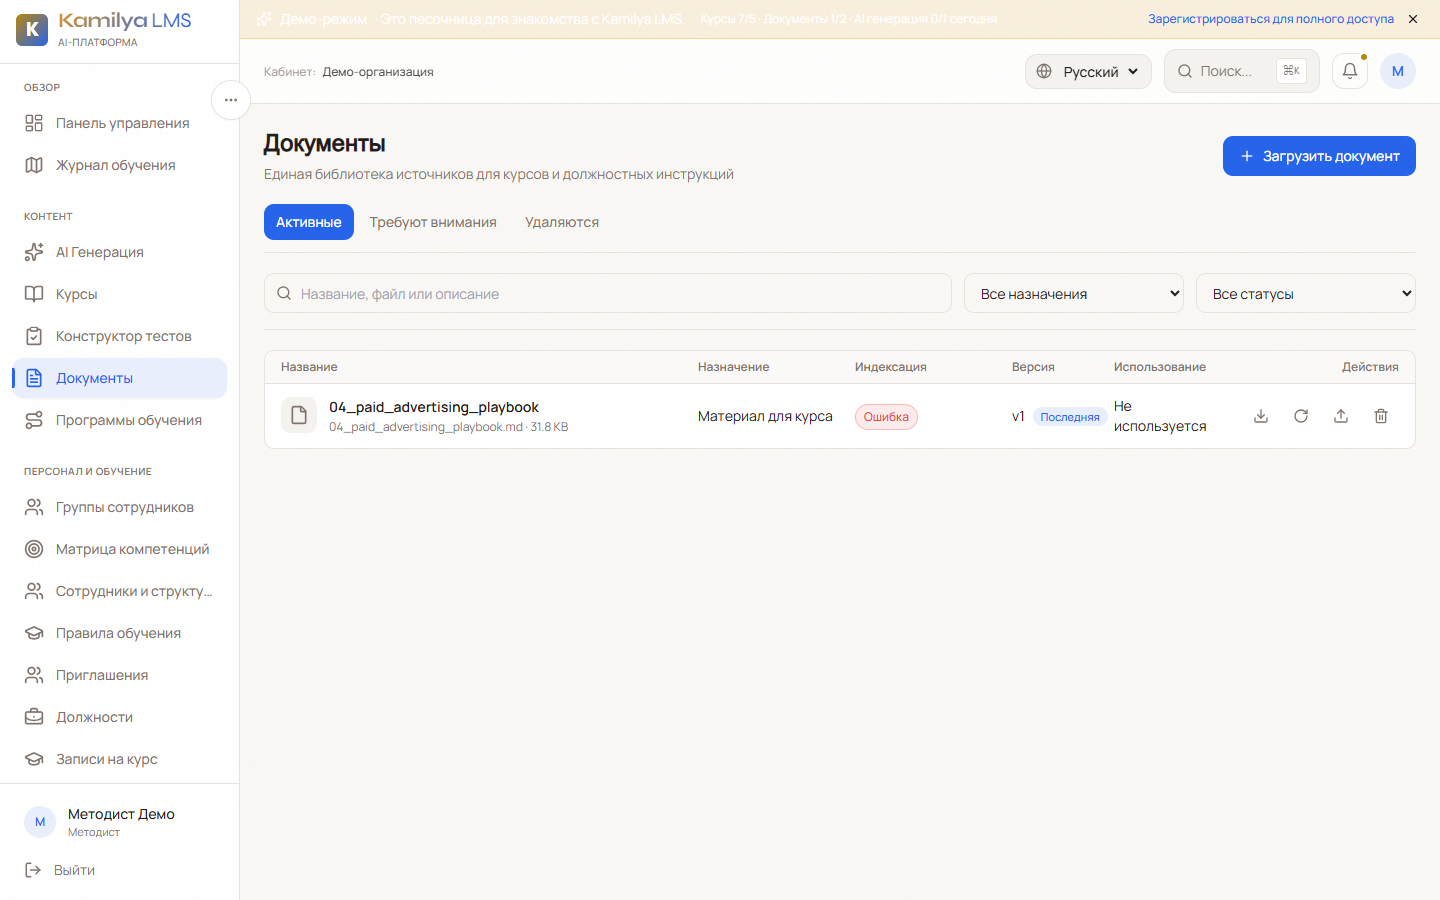
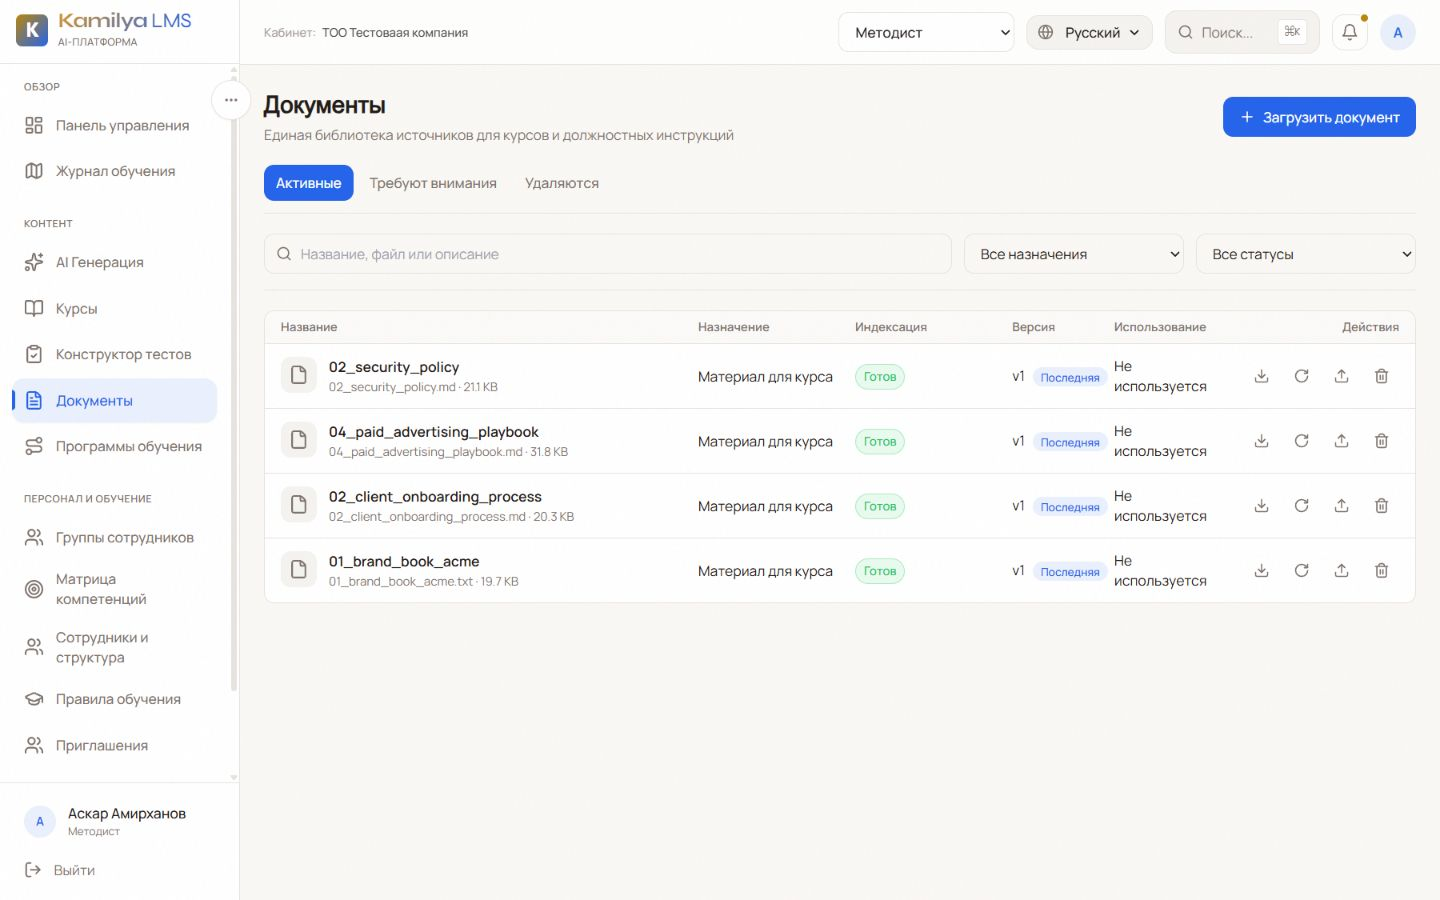
docs(presentation): refresh sales story screens

diff --git a/docs/presentations/2026-07-27_kamilya-lms-sales-story.html b/docs/presentations/2026-07-27_kamilya-lms-sales-story.html
@@ -235,7 +235,7 @@
               <div class="proof-row"><span><strong>Методолог</strong> управляет учебным контентом и назначениями.</span></div>
               <div class="proof-row"><span><strong>Обучающийся</strong> проходит курс в своём кабинете.</span></div>
             </div>
-            <p class="note">Все данные на скриншотах синтетические. Экраны сняты в production demo 27.07.2026.</p>
+            <p class="note">Все данные на скриншотах синтетические. Экраны повторно проверены в production 28.07.2026.</p>
           </div>
           <div class="screen-wrap">
             <div class="browser-bar"><i class="browser-dot"></i><i class="browser-dot"></i><i class="browser-dot"></i><span class="browser-url">https://app.kml.kz/login/demo</span></div>
@@ -250,8 +250,8 @@
     <section class="slide" data-title="Методолог видит рабочую систему" data-chapter="Роль">
       <header class="slide-header"><div class="brand"><span class="brand-mark">K</span><span><b>Kamilya</b> LMS</span></div><div class="slide-number">02 / 09</div></header>
       <div class="slide-body"><div class="story">
-        <div class="story-copy"><div class="eyebrow">Шаг 1 · Методолог</div><h2>Один кабинет для всей учебной работы</h2><p class="lead">Не нужно собирать обучение из таблиц, чатов и разрозненных файлов. Методолог сразу видит курсы, документы, группы, сотрудников, назначения и журнал.</p><div class="proof"><div class="proof-row"><span><strong>Контент</strong> и <strong>обучение</strong> собраны в одной навигации.</span></div><div class="proof-row"><span>Администратор организации не смешивается с учебными задачами.</span></div></div></div>
-        <div class="screen-wrap"><div class="browser-bar"><i class="browser-dot"></i><i class="browser-dot"></i><i class="browser-dot"></i><span class="browser-url">https://app.kml.kz/courses</span></div><img class="screen" src="assets/2026-07-27-sales-story/02-courses.png" alt="Реальный кабинет методолога со списком курсов"><div class="screen-caption"><strong>Курсы · Демо-организация</strong><span>7 курсов · черновики и опубликованные</span></div></div>
+        <div class="story-copy"><div class="eyebrow">Шаг 1 · Методолог</div><h2>Один кабинет для всей учебной работы</h2><p class="lead">Не нужно собирать обучение из таблиц, чатов и разрозненных файлов. Методолог сразу видит контент, персонал, назначения и журнал.</p><div class="proof"><div class="proof-row"><span>Разделы <strong>«Контент»</strong> и <strong>«Персонал и обучение»</strong> разведены в понятной навигации.</span></div><div class="proof-row"><span>Сотрудники, отделы и должности собраны в одном разделе без дублирующего реестра.</span></div></div></div>
+        <div class="screen-wrap"><div class="browser-bar"><i class="browser-dot"></i><i class="browser-dot"></i><i class="browser-dot"></i><span class="browser-url">https://app.kml.kz/courses</span></div><img class="screen" src="assets/2026-07-27-sales-story/02-courses.png" alt="Реальный кабинет методолога со списком курсов"><div class="screen-caption"><strong>Курсы · тестовая организация</strong><span>3 курса · черновик и опубликованные</span></div></div>
       </div></div>
       <footer class="slide-footer"><div class="progress"><span></span></div><div class="controls"></div></footer>
     </section>
@@ -268,8 +268,8 @@
     <section class="slide" data-title="AI собирает первый вариант курса" data-chapter="AI">
       <header class="slide-header"><div class="brand"><span class="brand-mark">K</span><span><b>Kamilya</b> LMS</span></div><div class="slide-number">04 / 09</div></header>
       <div class="slide-body"><div class="story">
-        <div class="story-copy"><div class="eyebrow">Шаг 3 · AI-генерация</div><h2>Из выбранных источников — в структуру курса</h2><p class="lead">Методолог выбирает документы, задаёт аудиторию, количество модулей и язык. AI готовит черновик, который остаётся под контролем специалиста.</p><div class="proof"><div class="proof-row"><span><strong>Русский или казахский</strong> выбирается при генерации.</span></div><div class="proof-row"><span>Курс не публикуется сам: его проверяют и редактируют.</span></div></div><p class="note">Показанный экран содержит реальный статус demo-документа, включая ошибку индексации. Это намеренно не скрыто: система показывает, почему источник нельзя использовать.</p></div>
-        <div class="screen-wrap"><div class="browser-bar"><i class="browser-dot"></i><i class="browser-dot"></i><i class="browser-dot"></i><span class="browser-url">https://app.kml.kz/ai/generate</span></div><img class="screen" src="assets/2026-07-27-sales-story/03-ai-generate.png" alt="Реальный экран AI-генерации курса Kamilya LMS"><div class="screen-caption"><strong>AI Генерация курса · документы → настройки</strong><span>Статус источника виден до запуска</span></div></div>
+        <div class="story-copy"><div class="eyebrow">Шаг 3 · AI-генерация</div><h2>Из выбранных источников — в структуру курса</h2><p class="lead">Методолог выбирает документы, задаёт аудиторию, количество модулей и язык. AI готовит черновик, который остаётся под контролем специалиста.</p><div class="proof"><div class="proof-row"><span><strong>Русский или казахский</strong> выбирается при генерации.</span></div><div class="proof-row"><span>Курс не публикуется сам: его проверяют и редактируют.</span></div></div><p class="note">До запуска система проверяет готовность и тематическую совместимость источников. В кадре выбран готовый документ, проверка пройдена.</p></div>
+        <div class="screen-wrap"><div class="browser-bar"><i class="browser-dot"></i><i class="browser-dot"></i><i class="browser-dot"></i><span class="browser-url">https://app.kml.kz/ai/generate</span></div><img class="screen" src="assets/2026-07-27-sales-story/03-ai-generate.png" alt="Реальный экран AI-генерации курса с готовым выбранным источником"><div class="screen-caption"><strong>AI Генерация курса · источник → настройки</strong><span>Документ готов · тематическая проверка пройдена</span></div></div>
       </div></div>
       <footer class="slide-footer"><div class="progress"><span></span></div><div class="controls"></div></footer>
     </section>
@@ -301,11 +301,11 @@
       <footer class="slide-footer"><div class="progress"><span></span></div><div class="controls"></div></footer>
     </section>
 
-    <section class="slide" data-title="Результат становится доказательством" data-chapter="Доказательства">
+    <section class="slide" data-title="Назначения становятся контролируемым процессом" data-chapter="Контроль">
       <header class="slide-header"><div class="brand"><span class="brand-mark">K</span><span><b>Kamilya</b> LMS</span></div><div class="slide-number">08 / 09</div></header>
       <div class="slide-body"><div class="story">
-        <div class="story-copy"><div class="eyebrow">Шаг 7 · Журнал и сертификат</div><h2>Руководитель видит не обещание, а результат</h2><p class="lead">Журнал собирает назначения, статус, прогресс, лучший балл, источник назначения и завершение. После успешного курса сотрудник получает сертификат в своём кабинете.</p><div class="outcome"><div class="outcome-item"><strong>100%</strong><span>прогресс завершённого обучения</span></div><div class="outcome-item"><strong>1</strong><span>назначение остаётся в журнале</span></div><div class="outcome-item"><strong>CSV</strong><span>результаты можно выгрузить</span></div></div><p class="note">Сертификат Kamilya LMS — продуктовый сертификат прохождения. Презентация не заявляет ЭЦП, юридическую значимость или замену обязательного журнала инструктажей.</p></div>
-        <div class="screen-wrap"><div class="browser-bar"><i class="browser-dot"></i><i class="browser-dot"></i><i class="browser-dot"></i><span class="browser-url">https://app.kml.kz/training-log</span></div><img class="screen" src="assets/2026-07-27-sales-story/06-training-log.png" alt="Реальный журнал обучения с прогрессом и статусами"><div class="screen-caption"><strong>Журнал обучения · контроль результата</strong><span>2 записи · 1 завершён · 100% прогресс</span></div></div>
+        <div class="story-copy"><div class="eyebrow">Шаг 7 · Журнал и сертификат</div><h2>Руководитель видит охват и источник назначения</h2><p class="lead">Журнал собирает сотрудника, курс, статус, прогресс, лучший балл, источник назначения и завершение. После успешного курса сертификат появляется в кабинете обучающегося.</p><div class="outcome"><div class="outcome-item"><strong>3</strong><span>назначения отражены в текущем журнале</span></div><div class="outcome-item"><strong>Отдел</strong><span>виден источник автоматического назначения</span></div><div class="outcome-item"><strong>CSV</strong><span>журнал можно выгрузить для анализа</span></div></div><p class="note">Сертификат Kamilya LMS — продуктовый сертификат прохождения. Презентация не заявляет ЭЦП, юридическую значимость или замену обязательного журнала инструктажей.</p></div>
+        <div class="screen-wrap"><div class="browser-bar"><i class="browser-dot"></i><i class="browser-dot"></i><i class="browser-dot"></i><span class="browser-url">https://app.kml.kz/training-log</span></div><img class="screen" src="assets/2026-07-27-sales-story/06-training-log.png" alt="Реальный журнал обучения с назначениями и источником правила"><div class="screen-caption"><strong>Журнал обучения · контроль охвата</strong><span>3 назначения · источник «По отделу»</span></div></div>
       </div></div>
       <footer class="slide-footer"><div class="progress"><span></span></div><div class="controls"></div></footer>
     </section>
